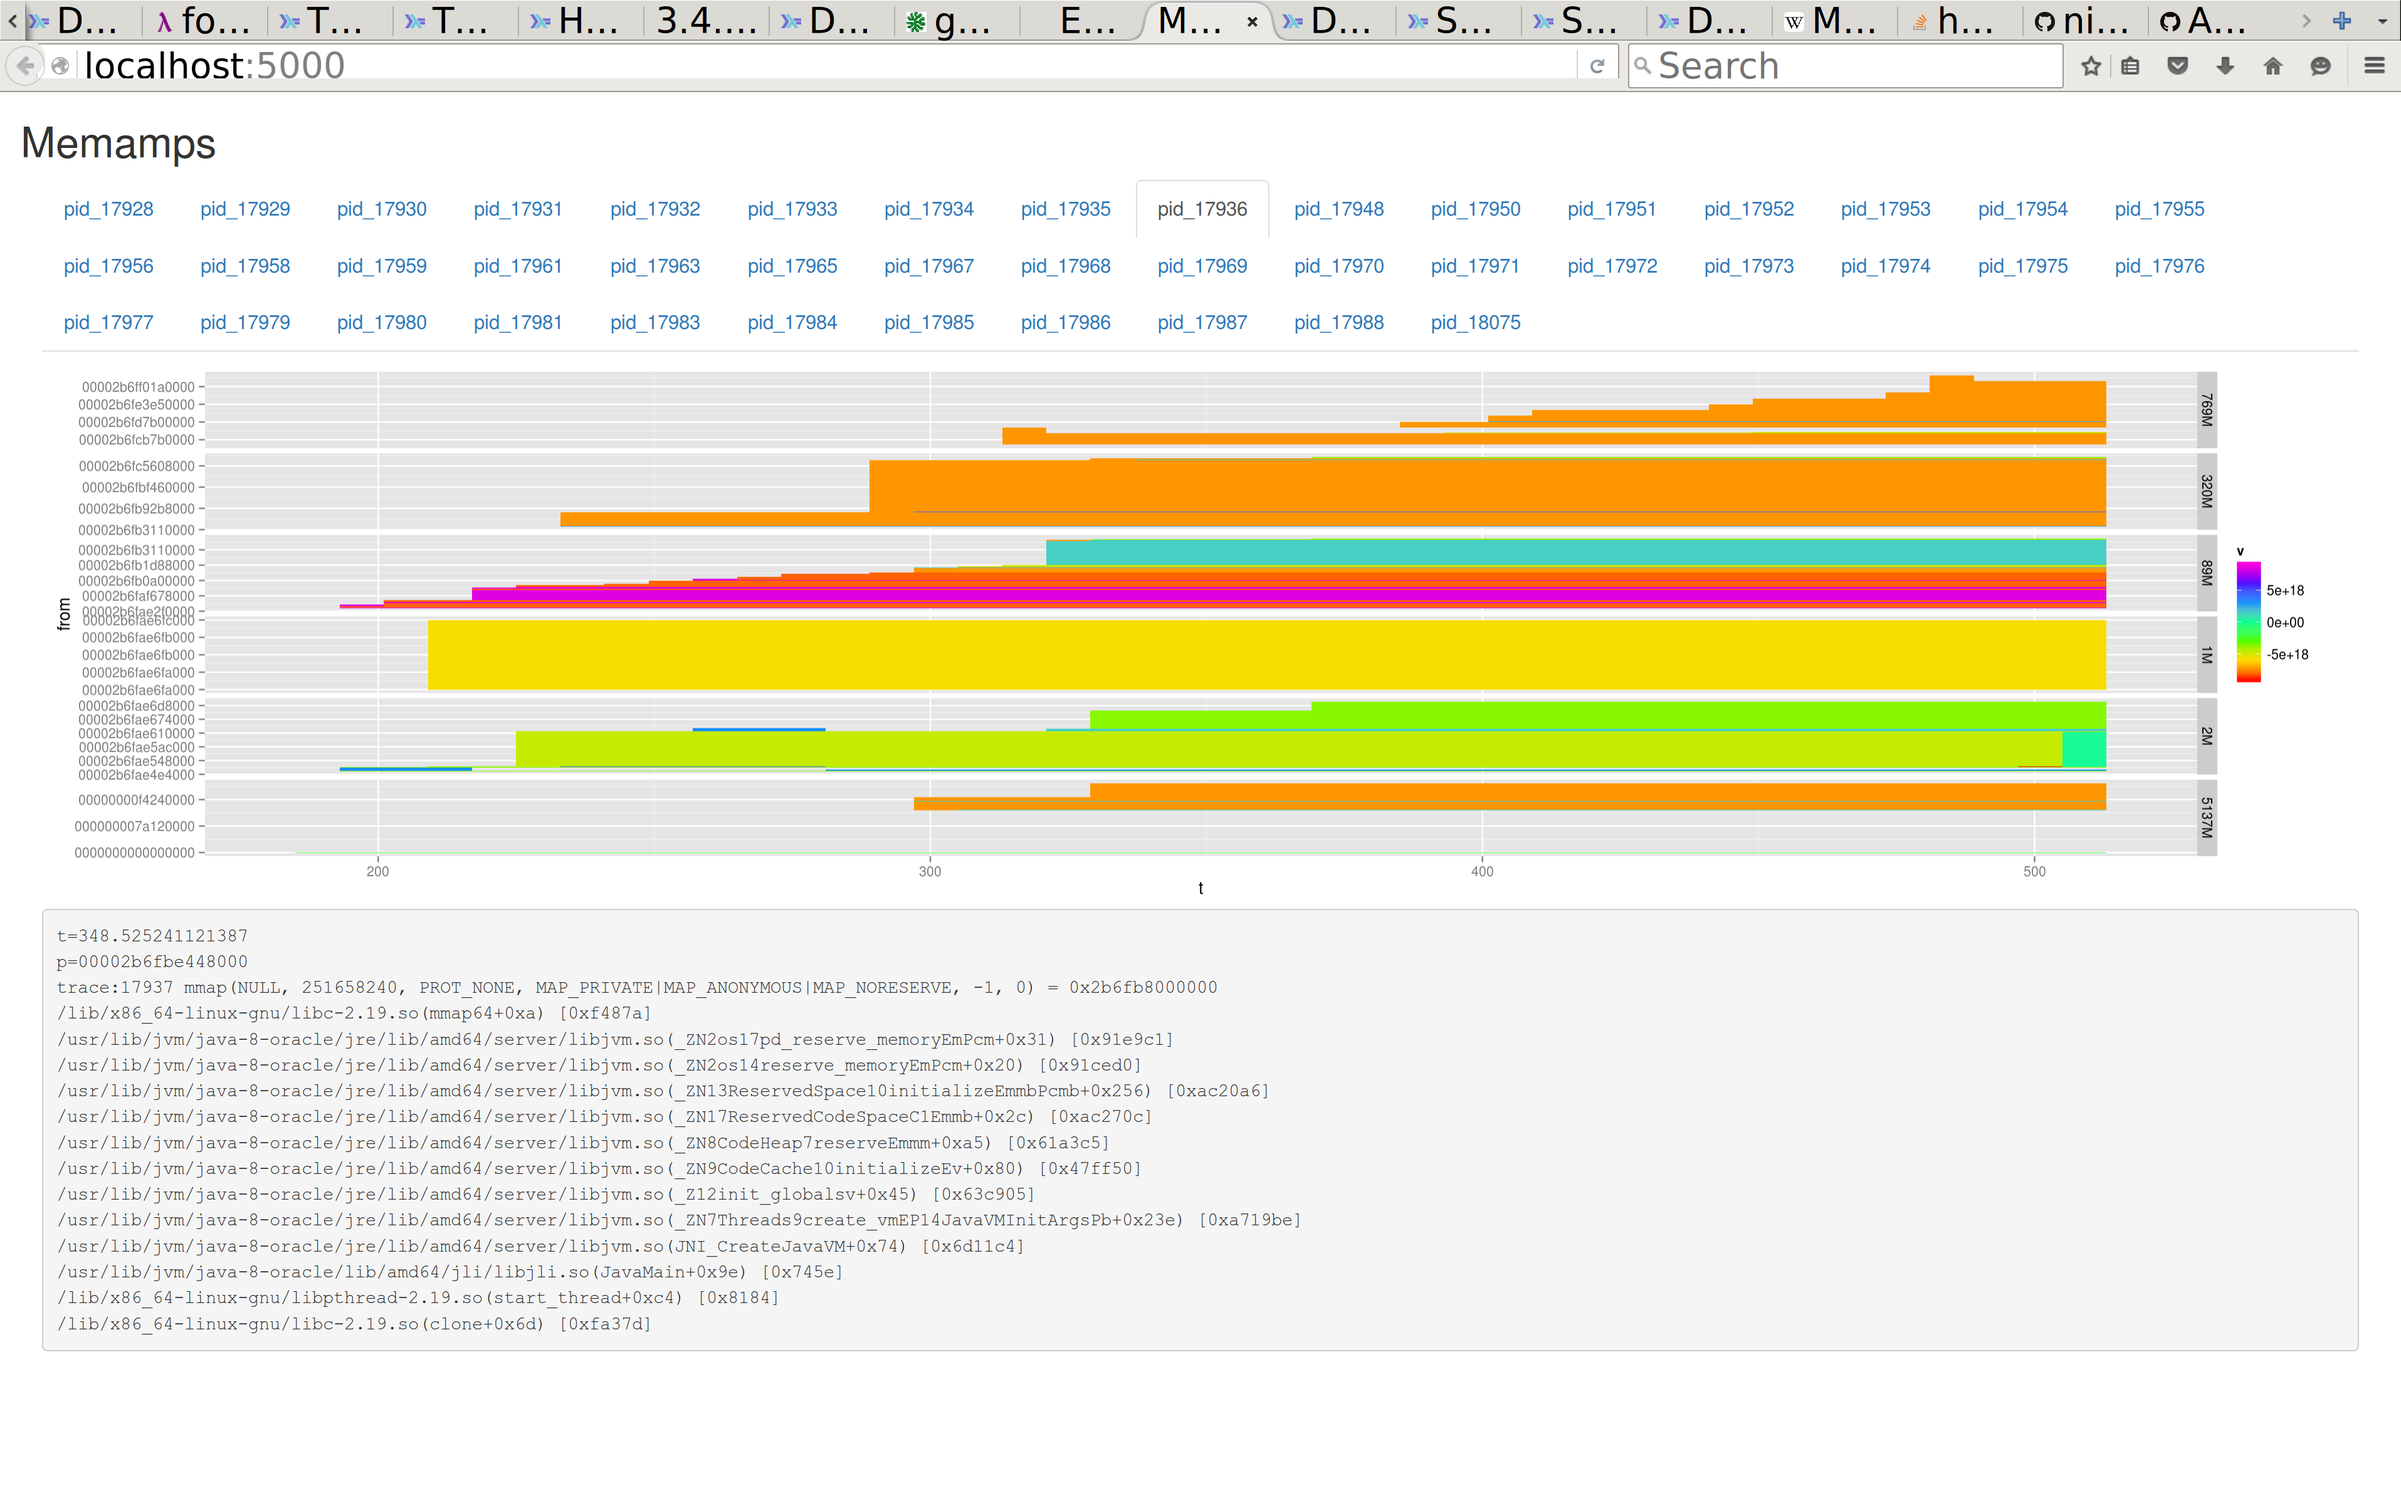
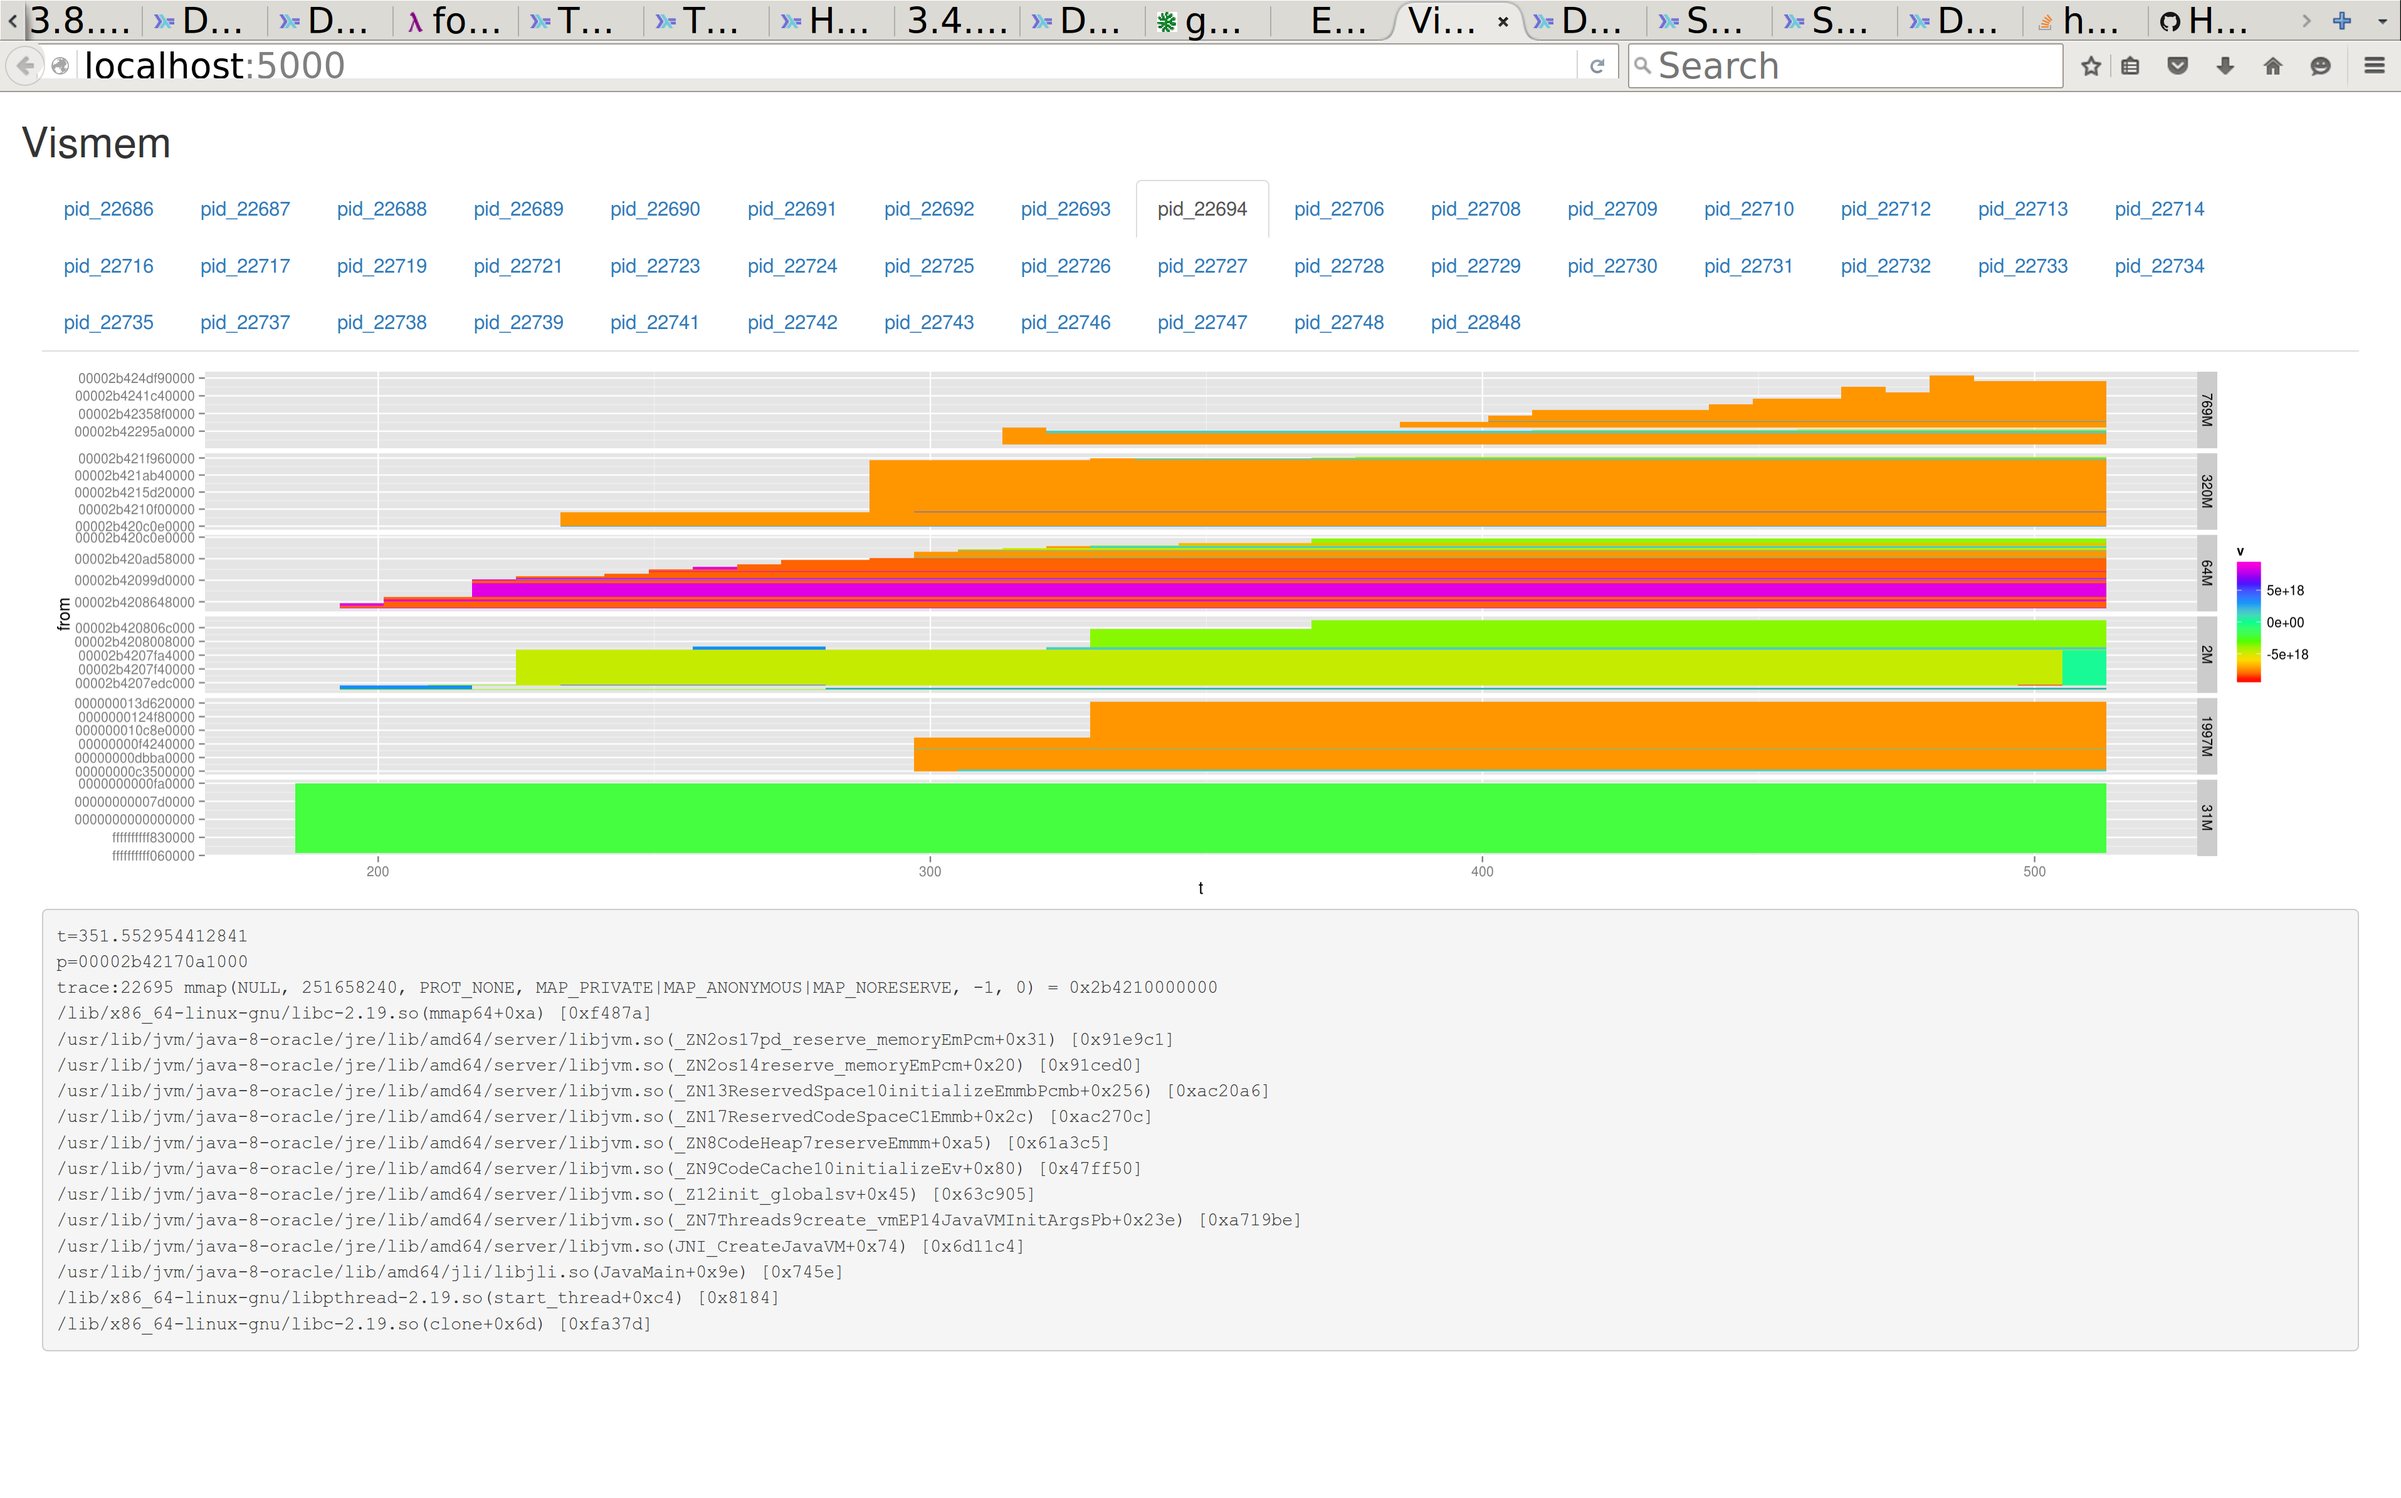
TODO added

diff --git a/README.md b/README.md
@@ -1,28 +1,55 @@
-# Vismem: A Linux VM visualizer
+# Vismem: A Linux VM Visualizer
 
 (Not cabalized yet)
 
-[[https://github.com/nishiuramakoto/vismem/blob/master/img/screenshot.png|alt=screenshot]]
+![alt screenshot](https://github.com/nishiuramakoto/vismem/blob/master/img/screenshot.png)
 
-Synopsis:
+## Synopsis
 
-    $ make show-prerequisites
-	$ # Install prerequisites
-    $ sudo apt-get install  libunwind8-dev libpcre3-dev r-base r-cran-ggplot2 r-cran-cluster
-	$ git clone https://github.com/strace/strace.git && \
-	     cd strace && ./bootstrap && ./configure --prefix=$HOME --with-libunwind && \
-	     make && make install
-    $ R
-    > options("download.file.method" = "wget") # may be needed in Ubuntu
-	> install.packages(c("shiny"))
+1. Install the prerequisites.
 
-    $ cabal install split hashable IntervalMap pretty regex-pcre
+        $ make show-prerequisites
 
-    $ make COMMAND="time ls"
-	....
-    Listening on http://127.0.0.1:5000
-	....
-	$ firefox http://127.0.0.1:5000
+        $ # An example in Ubuntu
+        $ sudo apt-get install  libunwind8-dev libpcre3-dev r-base r-cran-ggplot2 r-cran-cluster
+
+		$ # Compile strace or you will not be able to see stack traces
+        $ git clone https://github.com/strace/strace.git && \
+	          cd strace && ./bootstrap && ./configure --prefix=$HOME --with-libunwind && \
+              make && make install
+
+        $ # Install shiny
+        $ R
+        > options("download.file.method" = "wget") # may be needed in Ubuntu
+    	> install.packages(c("shiny"))
+
+        $ # Install cabal packages
+        $ cabal install split hashable IntervalMap pretty regex-pcre
+
+2. Edit the Makefile if necessary.
 
 
-Now you can click a region to show stack traces that are responsible for state of the region.
+3. Run the command:
+
+        $ make COMMAND="time ls"
+        ...
+	    DATA_DIR=build/data-2016-12-12_02h38m13s
+        Listening on http://127.0.0.1:5000
+	    ....
+    	$ firefox http://127.0.0.1:5000
+
+    Now you can click a region to show stack traces that are responsible for the state of the region.
+    Clicking outside the region will show the trace of the `execve` call which is responsible for the pid.
+
+4. Browse the previous results:
+
+        $ # Feed the DATA_DIR shown above
+        $ make DATA_DIR=build/data-2016-12-12_02h38m13s
+
+
+## TODO
+1. So slow.. should be like 100x faster.
+2. Traces for munmap are not currently shown.
+3. Current Sheaf module only supports 1-dimensional space, leading to
+   huge inefficiency.
+4. --quite switch may be needed
